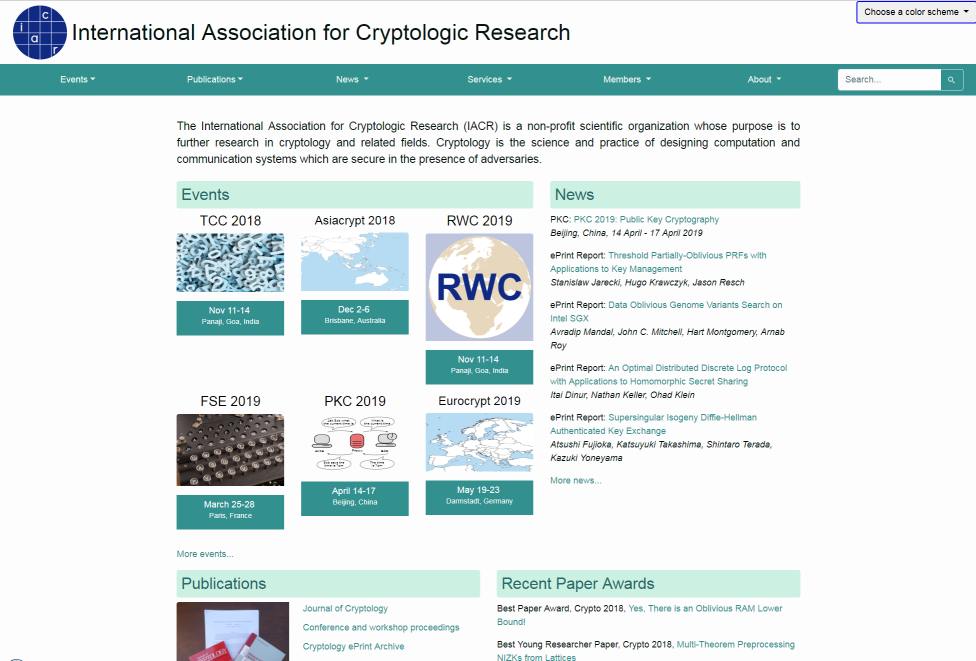
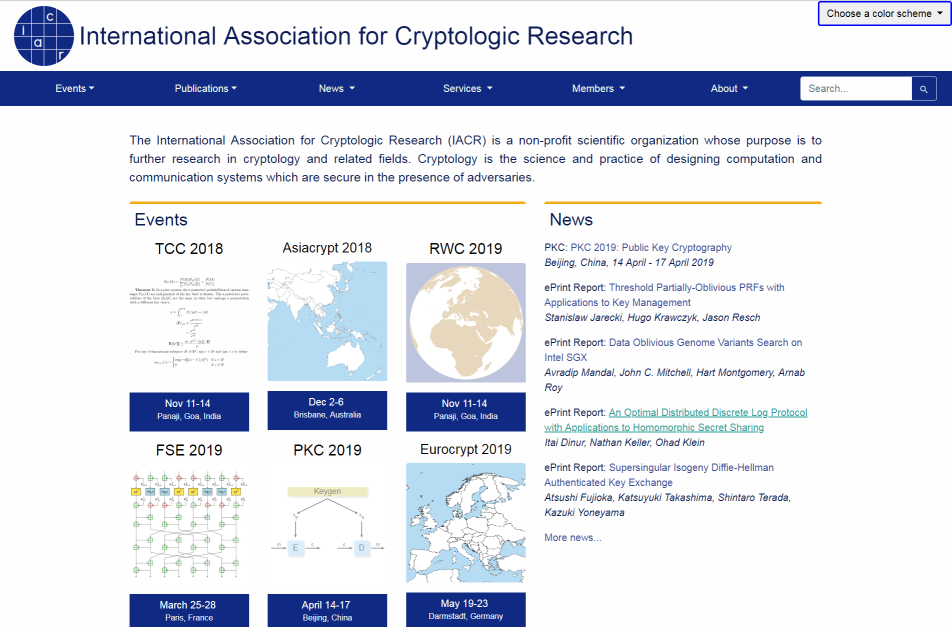
Various changes, version numbers in dropdowns.

diff --git a/index.html b/index.html
@@ -87,7 +87,7 @@
         <a href="kay6/"><img src="screenshots/kay6.png" class="card-img-top"></a>
         <div class="card-body">
           <ul>
-            <li>A wide version. Note that only the main page would be this wide.</li>
+            <li>A wide version. Note that only the main page would be this wide. (see <a href="kay6/jofc.html">jofc</a>)</li>
             <li>Menu has hover dropdowns</li>
             <li>Icons on news items</li>
             <li>Publication card with images for publications (open access!)</li>
@@ -141,28 +141,40 @@
         </ul>
         </div>
       </div>
+    </div>
+    <h1 style="text-align:center;background:#d0d0ff;">Other stuff</h1>
+    <div class="row">
+      <div class="card col-6">
+        <div class="card-header">
+          <h2>Other professional society websites</h2>
         </div>
-    <h2>Other professional websites to look at</h2>
-    <ul class="list-unstyled">
-      <li><a href="https://acm.org">ACM</a> Compact top menu, but cluttered navigation.</li>
-      <li><a href="https://aps.org">American Physical Society</a> Clear and good but boring.</li>
-      <li><a href="https://osa.org">Optical Society</a></li>
-      <li><a href="https://asanet.org">American Sociological Society</a> meh. Side menu changes.</li>
-      <li><a href="https://www.entsoc.org/event-calendar">Entomological Society</a>. It bugs us. Too big a top menu.</li>
-      <li><a href="https://sites.agu.org/">AGU</a>. Very different look. Nice upcoming meetings card. Three column card layout.</li>
-      <li><a href="https://www.sfn.org/Meetings">Society for Neuroscience</a>. Maxi menus like ACM.</li>
-    </ul>
-    <a href="https://docs.google.com/document/d/1E-_HBHUsvgy5Jt73ZoOnoUiMEakPc44JjJ82JDa130g/edit?usp=sharing">Another list is here</a>
-    <h2>Hall of shame</h2>
-    <ul class="list-unstyled">
-      <li><a href="https://usenix.org">Usenix</a> (not mobile friendly)</li>
-      <li><a href="https://www.apa.org/">American Psychological Society</a> Wildly different menu structures on different pages. GIGANTIC footer</li>
-      <li><a href="https://www.anatomy.org/meetings.html">Anatomical society</a>. You want ugly menus? We got em.</li>
-      <li><a href="http://www.aaai.org/">American Association for Artificial Intelligence</a>. A site designed by a dumb algorithm. Not mobile friendly.</li>
-      <li><a href="http://isa.org/">Automation Society</a>. Not mobile friendly. Godawful modal for cookies. You better like blue backgrounds.</li>
-      <li><a href="https://www.asce.org">ASCE</a>. You can't tell it's about engineering, and the people photos make it look
-        like <a href="https://www.ams.org">another shrine to diversity</a></li>
-    </ul>
+        <ul class="list-unstyled">
+          <li><a href="https://acm.org">ACM</a> Compact top menu, but cluttered navigation.</li>
+          <li><a href="https://aps.org">American Physical Society</a> Clear and good but boring.</li>
+          <li><a href="https://osa.org">Optical Society</a></li>
+          <li><a href="https://asanet.org">American Sociological Society</a> meh. Side menu changes.</li>
+          <li><a href="https://www.entsoc.org/event-calendar">Entomological Society</a>. It bugs us. Too big a top menu.</li>
+          <li><a href="https://sites.agu.org/">AGU</a>. Very different look. Nice upcoming meetings card. Three column card layout.</li>
+          <li><a href="https://www.sfn.org/Meetings">Society for Neuroscience</a>. Maxi menus like ACM.</li>
+        </ul>
+        <a href="https://docs.google.com/document/d/1E-_HBHUsvgy5Jt73ZoOnoUiMEakPc44JjJ82JDa130g/edit?usp=sharing">Another list is here</a>
+      </div>
+      <div class="card col-6">
+        <div class="card-header">
+          <h2>Hall of shame</h2>
+        </div>
+        <ul class="list-unstyled">
+            <li><a href="https://usenix.org">Usenix</a> (not mobile friendly)</li>
+            <li><a href="https://www.apa.org/">American Psychological Society</a> Wildly different menu structures on different pages. GIGANTIC footer</li>
+            <li><a href="https://www.anatomy.org/meetings.html">Anatomical society</a>. You want ugly menus? We got em.</li>
+            <li><a href="http://www.aaai.org/">American Association for Artificial Intelligence</a>. A site designed by a dumb algorithm. Not mobile friendly.</li>
+            <li><a href="http://isa.org/">Automation Society</a>. Not mobile friendly. Godawful modal for cookies. You better like blue backgrounds.</li>
+            <li><a href="https://www.asce.org">ASCE</a>. You can't tell it's about engineering, and the people photos make it look
+              like <a href="https://www.ams.org">another shrine to diversity</a></li>
+          </ul>
+        </div>
+      </div>
+    </div>
     See also <a href="iacr/logos.html">this page for more conference logos</a>.
   </div> <!-- end container -->
 

diff --git a/kevin3/index.html b/kevin3/index.html
@@ -23,6 +23,7 @@
       (Choose a color scheme)
     </a>
     <div class="dropdown-menu" aria-labelledby="dropdownMenuButton">
+      <a class="dropdown-item badge badge-warning disabled">Version 2</a>
       <a class="dropdown-item" href="#" onclick='setTheme("default")'>Blues</a>
       <a class="dropdown-item" href="#" onclick='setTheme("cube")'>Cubes header</a>
       <a class="dropdown-item" href="#" onclick='setTheme("tri")'>Triangles</a>
@@ -49,7 +50,7 @@
     <div class="collapse navbar-collapse w-100 flex-md-column" id="topNav">
       <!-- TODO: these links could use justified spacing on larger screens, also better text contrast -->
       <!-- NOTE: former classes on ul are navbar-nav mr-auto mt-2 mt-lg-0 -->
-      <ul class="navbar-nav ml-auto mb-2 mb-md-0 mt-2">
+      <ul class="navbar-nav ml-auto mb-3 mt-2">
         <li class="nav-item dropdown">
           <a class="nav-link dropdown-toggle mr-1 badge badge-light" href="#" id="navbarDropdown" role="button" data-toggle="dropdown" aria-haspopup="true" aria-expanded="false">
             Events

diff --git a/kevin4/index.html b/kevin4/index.html
@@ -23,6 +23,7 @@
         Choose a color scheme
       </button>
       <div class="dropdown-menu" aria-labelledby="dropdownMenuButton">
+        <a class="dropdown-item badge badge-warning disabled">Version 3</a>
         <a class="dropdown-item" href="#" onclick='setTheme("default")'>Blues</a>
         <a class="dropdown-item" href="#" onclick='setTheme("cube")'>Blues with cubed header</a>
         <a class="dropdown-item" href="#" onclick='setTheme("ugly")'>Shades of logo color</a>

diff --git a/svg.html b/svg.html
@@ -65,6 +65,8 @@
 <br><img height=200 src="./img/tcc5.png" alt="./img/tcc5.png"></div>
 <div class="box">screenshots/kay6.png
 <br><img height=200 src="./screenshots/kay6.png" alt="./screenshots/kay6.png"></div>
+<div class="box">screenshots/kay7.png
+<br><img height=200 src="./screenshots/kay7.png" alt="./screenshots/kay7.png"></div>
 <div class="box">kay6/img/oa.png
 <br><img height=200 src="./kay6/img/oa.png" alt="./kay6/img/oa.png"></div>
 <div class="box">kay7/img/oa.png

diff --git a/kay3/index.html b/kay3/index.html
@@ -27,6 +27,7 @@
         Choose a color scheme
       </button>
     <div class="dropdown-menu" aria-labelledby="dropdownMenuButton">
+      <a class="dropdown-item badge badge-warning disabled">Version 5</a>
       <a class="dropdown-item" href="#" onclick='setTheme("default")'>Subtle oceans</a>
       <a class="dropdown-item" href="#" onclick='setTheme("apple")'>Fresh apples</a>
       <a class="dropdown-item" href="#" onclick='setTheme("monochrome")'>Monochrome</a>

diff --git a/kay6/index.html b/kay6/index.html
@@ -27,6 +27,7 @@
         Choose a color scheme
       </button>
     <div class="dropdown-menu" aria-labelledby="dropdownMenuButton">
+      <a class="dropdown-item badge badge-warning disabled">Version 4</a>
       <a class="dropdown-item" href="#" onclick='setTheme("default")'>Monochrome</a>
       <a class="dropdown-item" href="#" onclick='setTheme("mono2")'>Monochrome 2</a>
       <a class="dropdown-item" href="#" onclick='setTheme("apple")'>Alternate apples</a>

diff --git a/kay7/index.html b/kay7/index.html
@@ -27,6 +27,7 @@
         Choose a color scheme
       </button>
     <div class="dropdown-menu" aria-labelledby="dropdownMenuButton">
+      <a class="dropdown-item badge badge-warning disabled">Version 7</a>
       <a class="dropdown-item" href="#" onclick='setTheme("default")'>Monochrome</a>
       <a class="dropdown-item" href="#" onclick='setTheme("apple")'>Alternate apples</a>
       <a class="dropdown-item" href="#" onclick='setTheme("test")'>test</a>

diff --git a/kevin3/themes.css b/kevin3/themes.css
@@ -67,8 +67,6 @@ Cube theme.
 .cube-topbar {
     background: url(../img/blue_cubed.png);
     background-size: contain;
-    padding-top: 25px !important;
-    padding-bottom: 25px !important;
 }
 .cube-card-footer {
     background: #e0e0f0 !important;

diff --git a/kay6/styles/main.css b/kay6/styles/main.css
@@ -84,7 +84,7 @@ footer ul.nav {
     top:40%;
     left:50%;
     transform: translate(-50%, -50%);
-    font-size: 36px;
+    font-size: 30px;
     font-weight: bold;
     color: #102a83;
     text-shadow: 2px 2px 3px rgba(0,0,0,.3);

diff --git a/kevin3/iacr.css b/kevin3/iacr.css
@@ -68,6 +68,8 @@ img#iacrlogo {
     color: #102a83;
 }
 #topbar {
+    padding-top: 25px !important;
+    padding-bottom: 25px !important;
     background-size: cover;
 }
 .subtitle {
